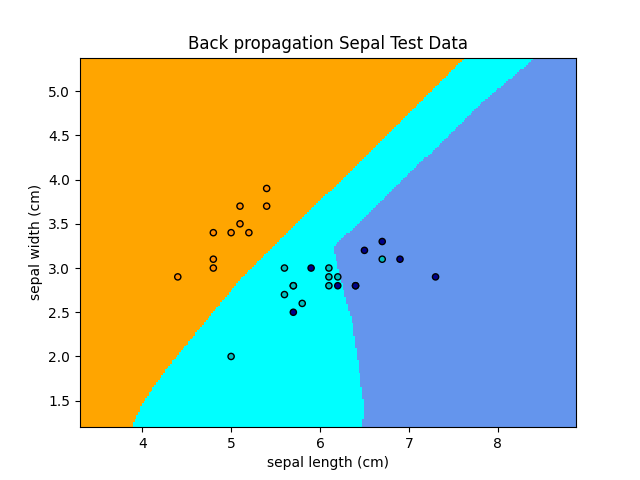
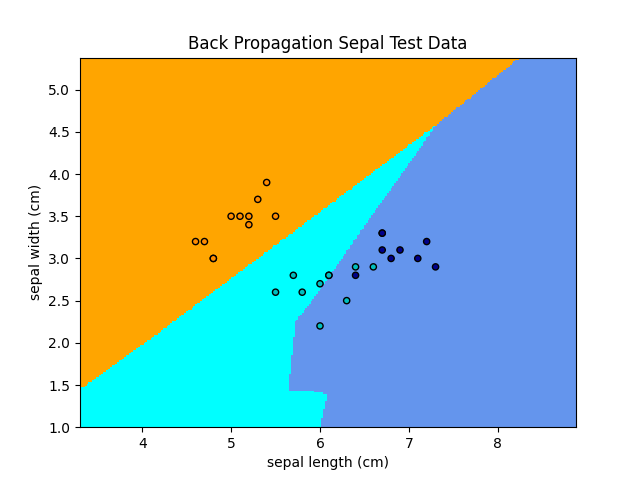
fixed the double training

diff --git a/A/main.py b/A/main.py
@@ -30,64 +30,14 @@ def plotData(x, y, title):
     plt.clf()
     # plt.show()
 
-def plotClf(model, iris, X_train, y_train, title, plotSepal=True, supervised=True):
+def plotClf(model, iris, X_train, X_plot, y_train, y_plot, title, plotSepal=True, supervised=True):
     plt.clf()
     h = .02  # step size in the mesh
 
     if (plotSepal):
         baseIndex = 0
-        X = X_train[:, :2]
     else: 
-        baseIndex = 2
-        X = X_train[:, 2:]
-
-    if supervised:
-        model.fit(X, y_train)
-    else: 
-        model.fit(X)
-
-    # Create color maps
-    cmap_light = ListedColormap(['orange', 'cyan', 'cornflowerblue'])
-    cmap_bold = ListedColormap(['darkorange', 'c', 'darkblue'])
-
-    # Plot the decision boundary. For that, we will assign a color to each
-    # point in the mesh [x_min, x_max]x[y_min, y_max].
-    x_min, x_max = X[:, 0].min() - 1, X[:, 0].max() + 1
-    y_min, y_max = X[:, 1].min() - 1, X[:, 1].max() + 1
-    xx, yy = np.meshgrid(np.arange(x_min, x_max, h), np.arange(y_min, y_max, h))
-    Z = model.predict(np.c_[xx.ravel(), yy.ravel()])
-
-    # Put the result into a color plot
-    Z = Z.reshape(xx.shape)
-    # plt.figure()
-    plt.pcolormesh(xx, yy, Z, cmap=cmap_light)
-
-    # Plot also the training points
-    plt.scatter(X[:, 0], X[:, 1], c=y_train, cmap=cmap_bold, edgecolor='k', s=20)
-    if not supervised:
-        plt.scatter(model.cluster_centers_[:,0] ,model.cluster_centers_[:,1], color='red')
-    plt.xlim(xx.min(), xx.max())
-    plt.ylim(yy.min(), yy.max())
-    plt.title(title)
-    plt.xlabel(iris.feature_names[baseIndex])
-    plt.ylabel(iris.feature_names[baseIndex + 1])
-    plt.savefig("A/images/" + title.replace(" ", "-"))
-    # plt.show()
-
-def plotClfTestData(model, iris, X_train, X_test, y_train, y_test, title, plotSepal=True, supervised=True):
-    plt.clf()
-    h = .02  # step size in the mesh
-
-    if (plotSepal):
-        baseIndex = 0
-        X_train = X_train[:, :2]
-        X_test = X_test[:, :2]
-    else: 
-        baseIndex = 2
-        X_train = X_train[:, 2:]
-        X_test = X_test[:, 2:]
-
-    model.fit(X_train, y_train)    
+        baseIndex = 2  
 
     # Create color maps
     cmap_light = ListedColormap(['orange', 'cyan', 'cornflowerblue'])
@@ -102,11 +52,10 @@ def plotClfTestData(model, iris, X_train, X_test, y_train, y_test, title, plotSe
 
     # Put the result into a color plot
     Z = Z.reshape(xx.shape)
-    # plt.figure()
     plt.pcolormesh(xx, yy, Z, cmap=cmap_light)
 
     # Plot also the training points
-    plt.scatter(X_test[:, 0], X_test[:, 1], c=y_test, cmap=cmap_bold, edgecolor='k', s=20)
+    plt.scatter(X_plot[:, 0], X_plot[:, 1], c=y_plot, cmap=cmap_bold, edgecolor='k', s=20)
     if not supervised:
         plt.scatter(model.cluster_centers_[:,0] ,model.cluster_centers_[:,1], color='red')
     plt.xlim(xx.min(), xx.max())
@@ -115,7 +64,20 @@ def plotClfTestData(model, iris, X_train, X_test, y_train, y_test, title, plotSe
     plt.xlabel(iris.feature_names[baseIndex])
     plt.ylabel(iris.feature_names[baseIndex + 1])
     plt.savefig("A/images/" + title.replace(" ", "-"))
-    # plt.show()
+
+def plotAll(model, iris, X_train, X_test, y_train, y_test, title, plotSepal=True, supervised=True):
+    X_train_Sepal = X_train[:, :2]
+    X_test_Sepal = X_test[:, :2]
+    X_train_Petal = X_train[:, 2:]
+    X_test_Petal = X_test[:, 2:]
+
+    model.fit(X_train_Sepal, y_train)
+    plotClf(model, iris, X_train_Sepal, X_train_Sepal, y_train, y_train, title + " Sepal Train Data", plotSepal=True, supervised=supervised)
+    plotClf(model, iris, X_train_Sepal, X_test_Sepal, y_train, y_test, title + " Sepal Test Data", plotSepal=True, supervised=supervised)
+
+    model.fit(X_train_Petal, y_train)
+    plotClf(model, iris, X_train_Petal, X_train_Petal, y_train, y_train, title + " Petal Train Data", plotSepal=False, supervised=supervised)
+    plotClf(model, iris, X_train_Petal, X_test_Petal, y_train, y_test, title + " Petal Test Data", plotSepal=False, supervised=supervised)    
 
 if __name__ == "__main__":
     print("Iris data:")
@@ -141,41 +103,26 @@ if __name__ == "__main__":
     model = dtree.decisionTree(X_train, y_train)
     makeTestPrediction(model, iris)
     dtree.plotDecisionTree(model)
-    plotClf(model, iris, X_train, y_train, "Decision Tree Petal", plotSepal=False)
-    plotClf(model, iris, X_train, y_train, "Decision Tree Sepal", plotSepal=True)
-    plotClfTestData(model, iris, X_train, X_test, y_train, y_test, "Decision Tree Petal Test Data", plotSepal=False)
-    plotClfTestData(model, iris, X_train, X_test, y_train, y_test, "Decision Tree Sepal Test Data", plotSepal=True)
+    plotAll(model, iris, X_train, X_test, y_train, y_test, "Decision Tree", plotSepal=False)
 
     print("Performing Decision Tree Max Depth 4 ", end="    ")
     model = dtree.decisionTree(X_train, y_train, max_depth=4)
     makeTestPrediction(model, iris)
-    plotClf(model, iris, X_train, y_train, "Decision Tree Petal Max depth 4", plotSepal=False)
-    plotClf(model, iris, X_train, y_train, "Decision Tree Sepal Max depth 4", plotSepal=True)
-    plotClfTestData(model, iris, X_train, X_test, y_train, y_test, "Decision Tree Petal Max depth 4 Test Data", plotSepal=False)
-    plotClfTestData(model, iris, X_train, X_test, y_train, y_test, "Decision Tree Sepal Max depth 4 Test Data", plotSepal=True)
+    plotAll(model, iris, X_train, X_test, y_train, y_test, "Decision Tree Max Depth 4", plotSepal=False)
 
     print("Performing K Nearest Neighbors       ", end="    ")
     model = knn.kNearestNeighbors(X_train, y_train, 3)
     makeTestPrediction(model, iris)
-    plotClf(model, iris, X_train, y_train, "Knn Petal", plotSepal=False)
-    plotClf(model, iris, X_train, y_train, "Knn Sepal", plotSepal=True)
-    plotClfTestData(model, iris, X_train, X_test, y_train, y_test, "Knn Petal Test Data", plotSepal=False)
-    plotClfTestData(model, iris, X_train, X_test, y_train, y_test, "Knn Sepal Test Data", plotSepal=True)
+    plotAll(model, iris, X_train, X_test, y_train, y_test, "K Nearest Neighbors", plotSepal=False)
 
     print("Performing K Means Clustering        ", end="    ")
     model = kmeansclustering.kMeansClustering(X_train, numberOfClusters=3)
     makeTestPrediction(model, iris) # This is off because the index of the clusters don't match
-    plotClf(model, iris, X_train, y_train, "K Means Clustering Petal", plotSepal=False, supervised=False)
-    plotClf(model, iris, X_train, y_train, "K Means Clustering Sepal", plotSepal=True, supervised=False)
-    plotClfTestData(model, iris, X_train, X_test, y_train, y_test, "K Means Clustering Petal Test Data", plotSepal=False, supervised=False)
-    plotClfTestData(model, iris, X_train, X_test, y_train, y_test, "K Means Clustering Sepal Test Data", plotSepal=True, supervised=False)
+    plotAll(model, iris, X_train, X_test, y_train, y_test, "K Means Clustering", plotSepal=False, supervised=False)
     
     print("Performing Back propagation          ", end="    ")
     model = bp.backPropagation(X_train, X_test, y_train, y_test)
     makeTestPrediction(model, iris)
-    plotClf(model, iris, X_train, y_train, "Back propagation Sepal", plotSepal=True)
-    plotClf(model, iris, X_train, y_train, "Back propagation Petal", plotSepal=False)
-    plotClfTestData(model, iris, X_train, X_test, y_train, y_test, "Back propagation Petal Test Data", plotSepal=False)
-    plotClfTestData(model, iris, X_train, X_test, y_train, y_test, "Back propagation Sepal Test Data", plotSepal=True)
+    plotAll(model, iris, X_train, X_test, y_train, y_test, "Back Propagation", plotSepal=False)
 
 # TODO: k Means Clustering
